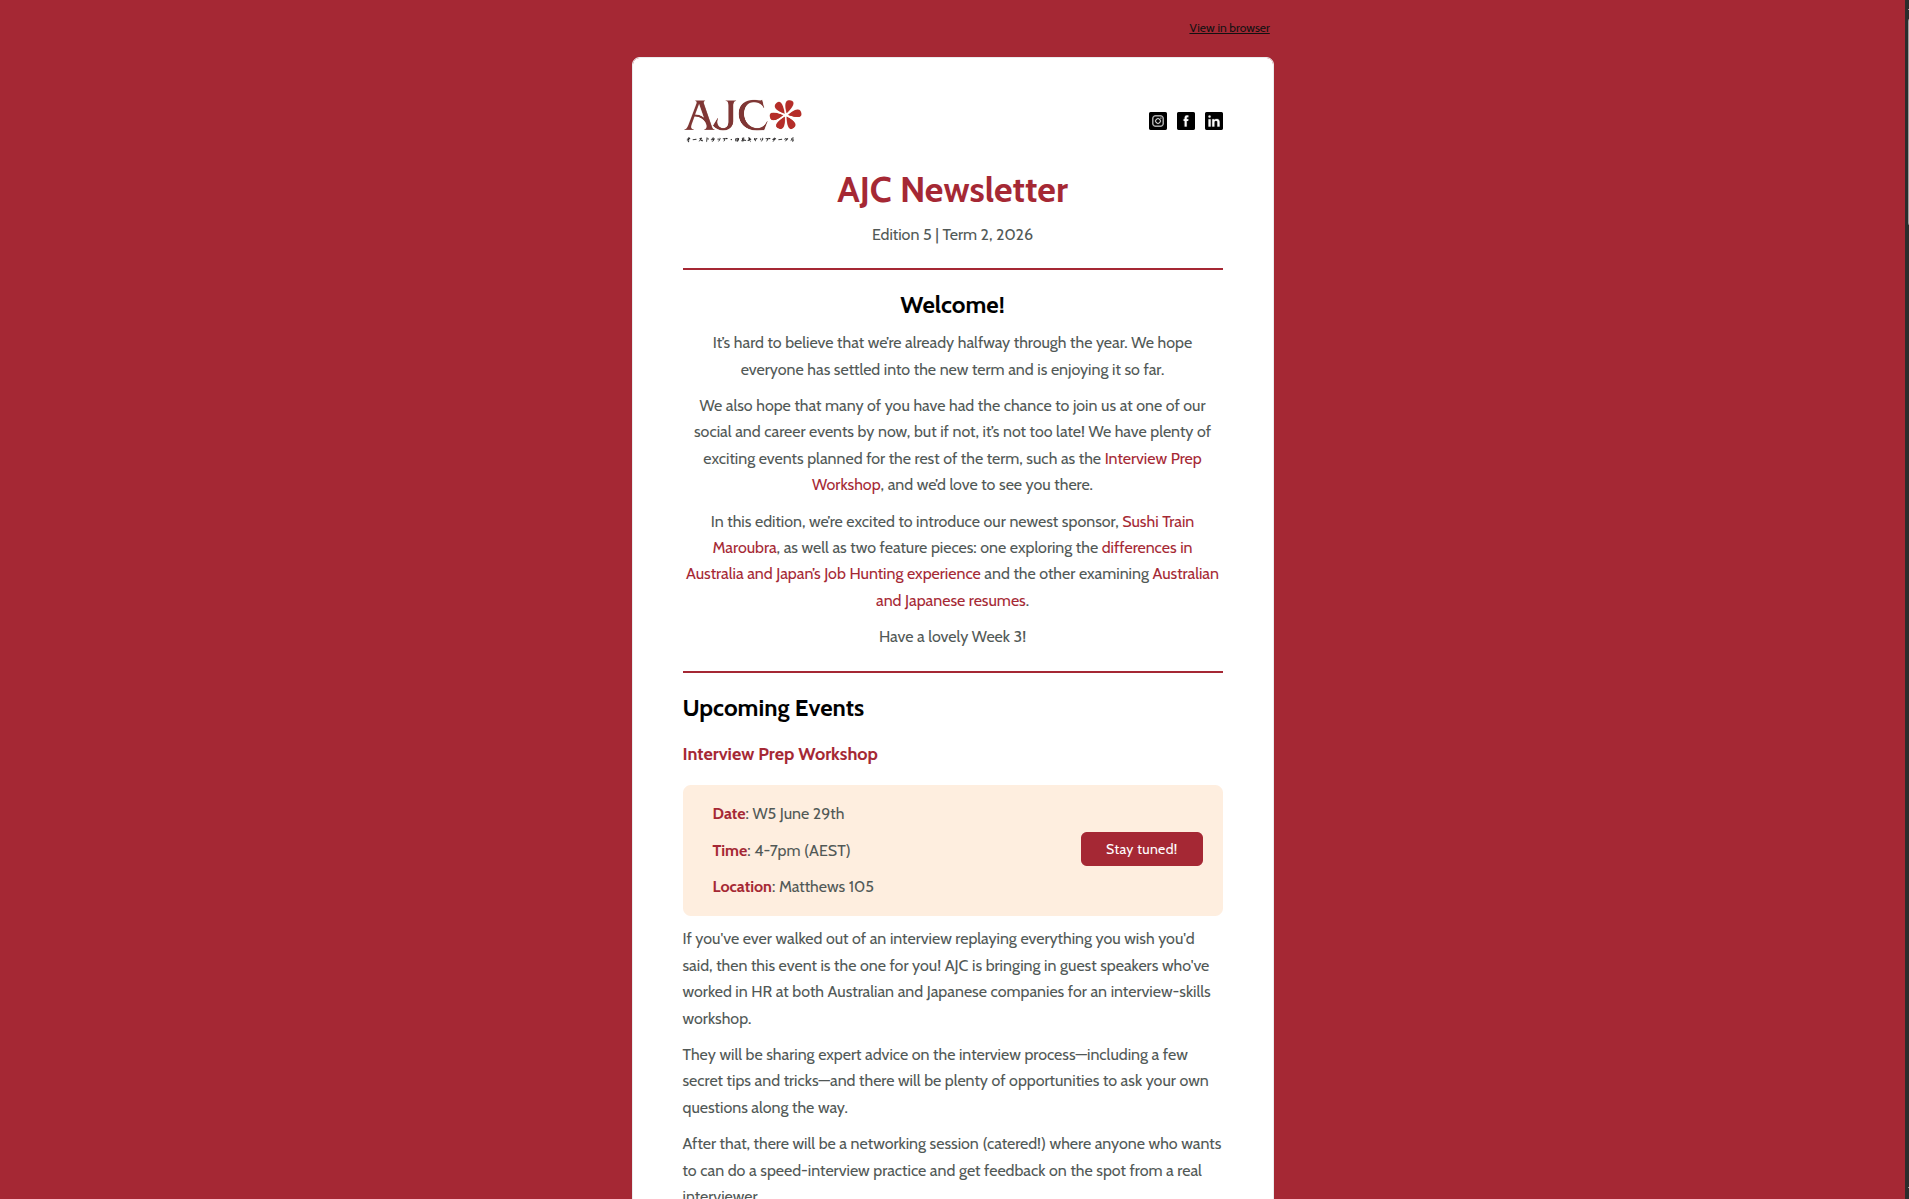
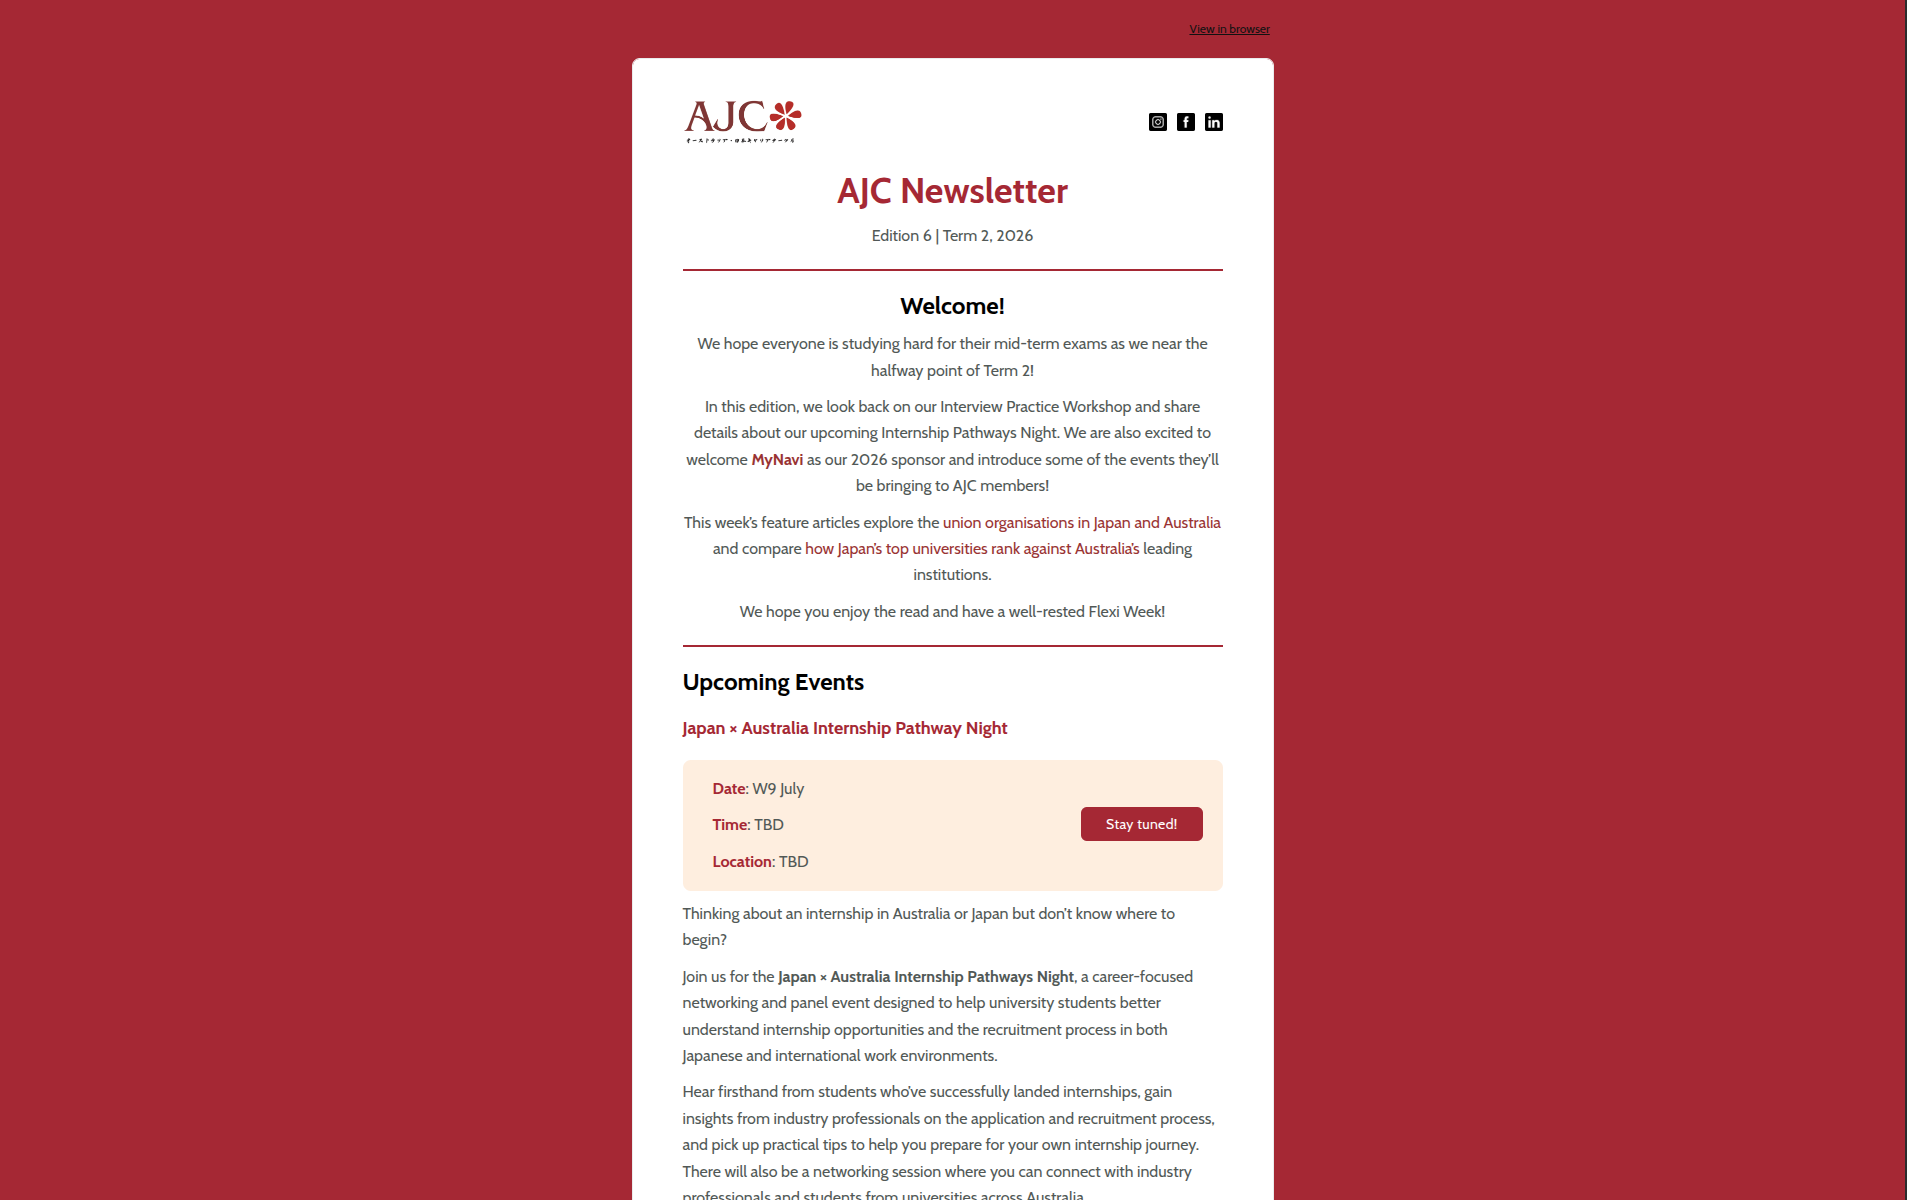
Added Term 2 Edition 6 newsletter to AJC Archive

diff --git a/src/app/[locale]/(home)/components/Archive.tsx b/src/app/[locale]/(home)/components/Archive.tsx
@@ -7,6 +7,14 @@ import { Link } from "../../../../i18n/navigation";
 
 const newsletters = [
 	{
+		image: "https://storage.mlcdn.com/account_image/2097742/QWKcYsYWQcNX9ioux0HYks2fAqhw4zNMXZ9MtB22.png",
+		title: "2026 Term 2 Edition 6",
+		date: "July 2026",
+		description: "This week's feature articles explore the union organisations in Japan and Australia and compare how Japan's top universities rank against Australia's leading institutions...",
+		hrefEnglish: "https://preview.mailerlite.io/emails/webview/2097742/191780861433087802",
+		hrefJapanese: "https://preview.mailerlite.io/emails/webview/2097742/191780861576742779"
+	},
+	{
 		image: "https://storage.mlcdn.com/account_image/2097742/DUHqfS8PCMNtIz0gNeynwDpi2teodTnaMXaDCzmR.png",
 		title: "2026 Term 2 Edition 5",
 		date: "June 2026",